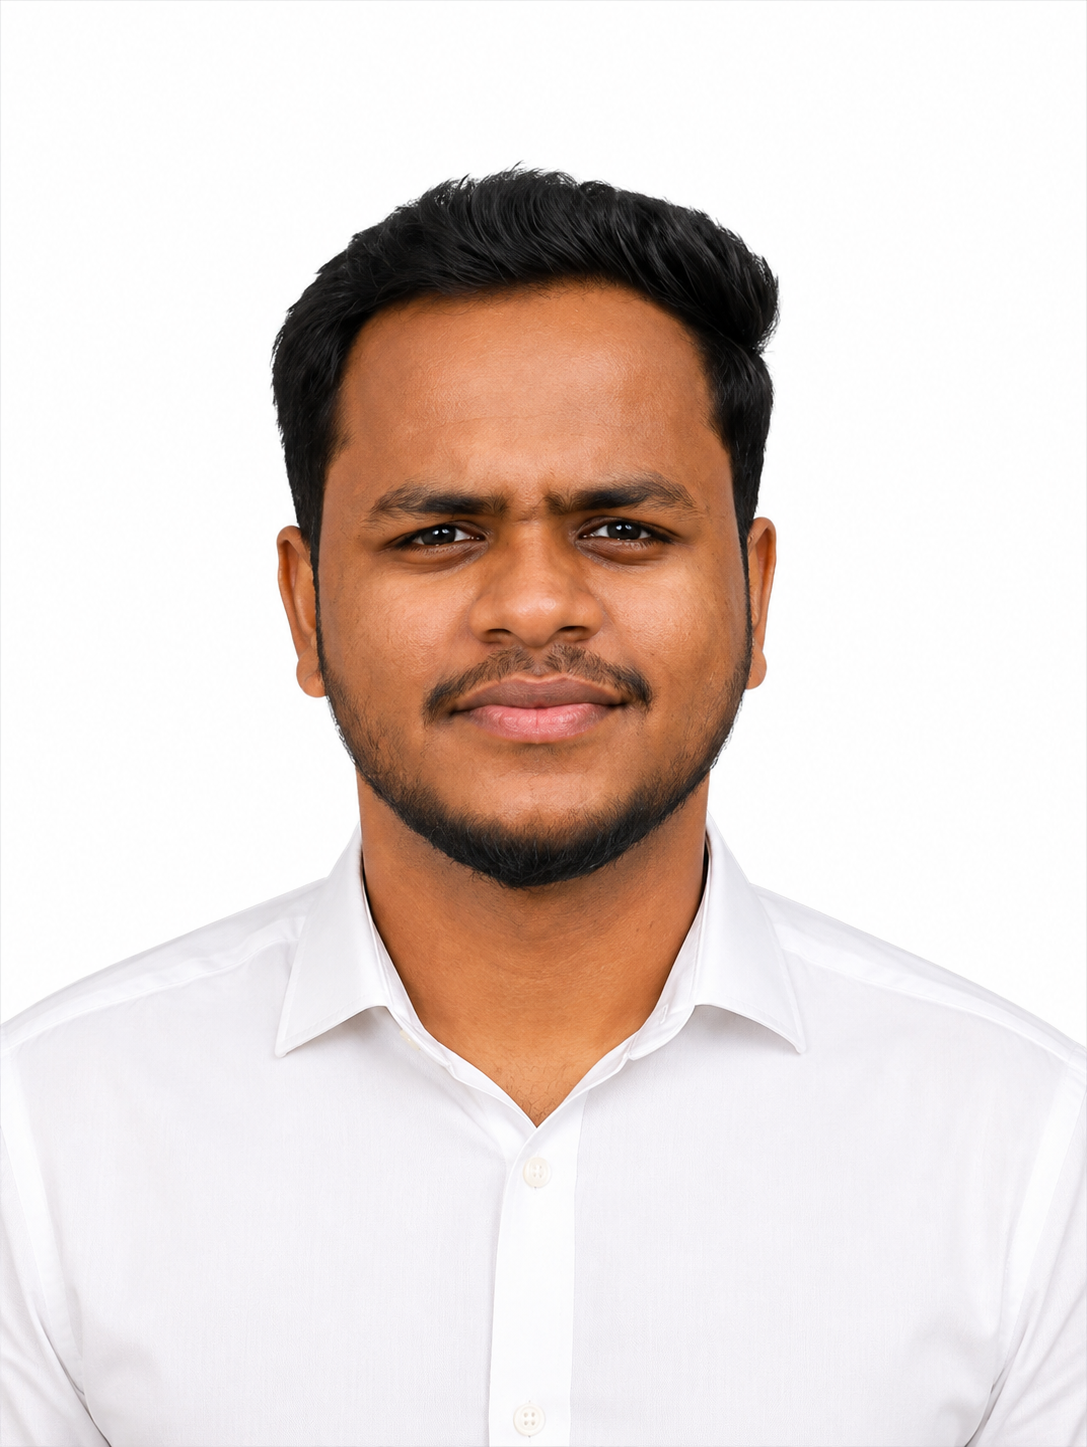
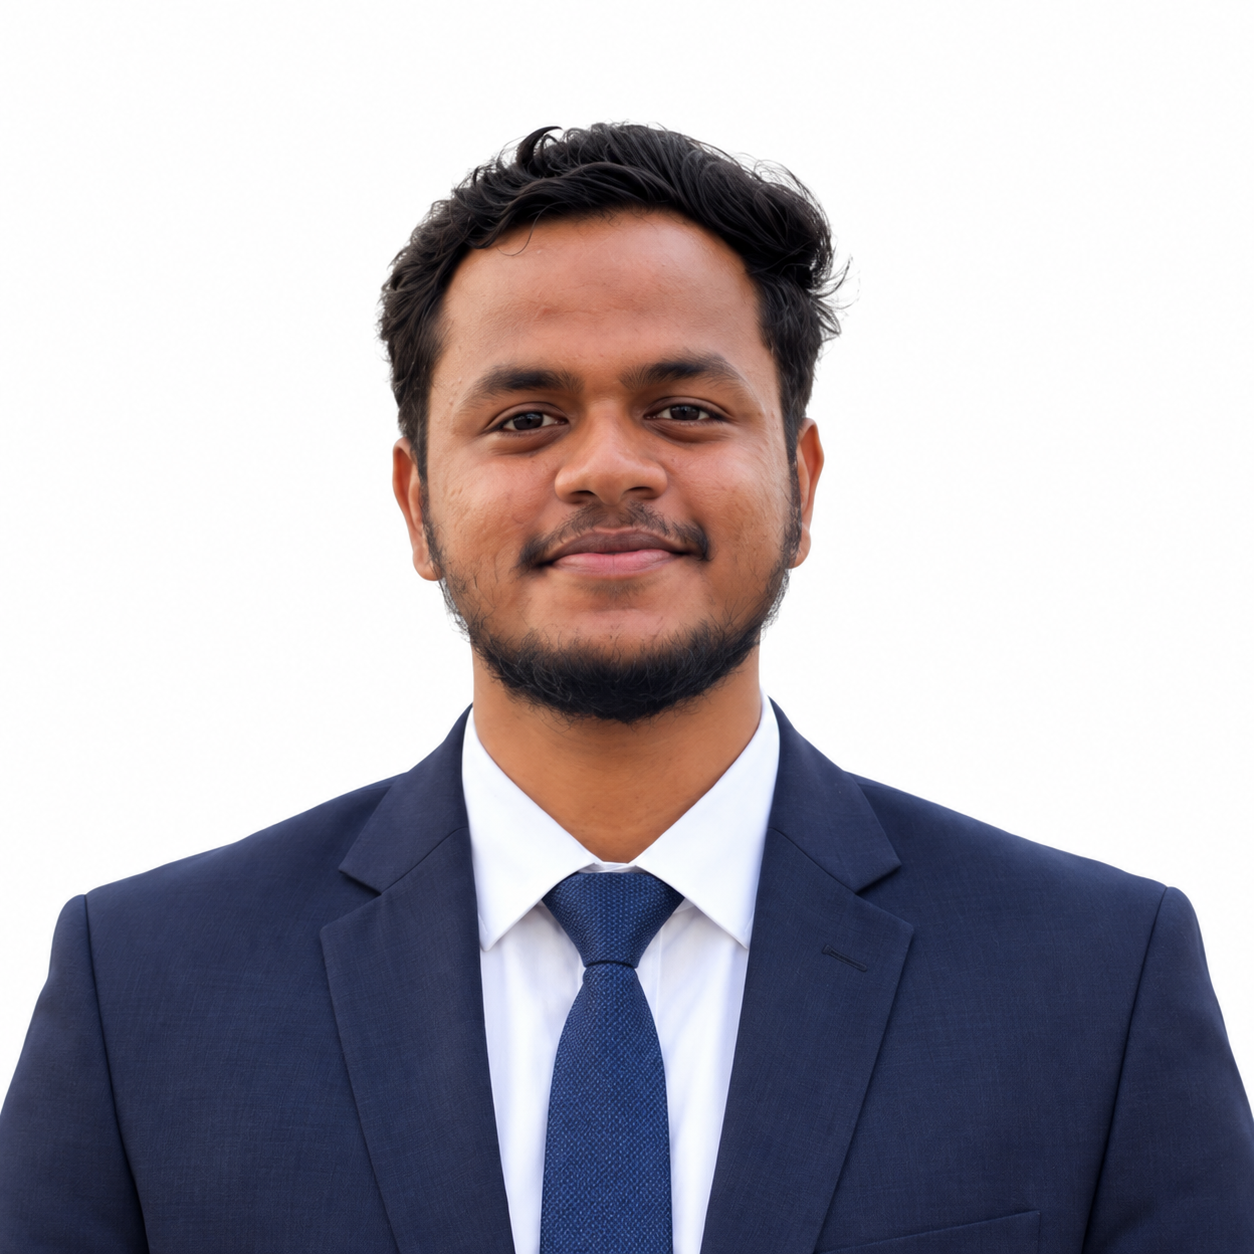
Add files via upload

diff --git a/style.css b/style.css
@@ -34,7 +34,7 @@ a{text-decoration:none;color:inherit}.grid-bg{position:fixed;inset:0;z-index:-2;
 .section-head{display:flex;align-items:center;gap:14px;margin-bottom:55px;font:700 12px "JetBrains Mono";letter-spacing:2px;color:#3155c8}.section-head .index{color:var(--orange)}.section-head i{height:1px;flex:1;background:#dfe3eb}
 .section h2,.section-title{margin:0;font:700 clamp(46px,5.2vw,78px)/1.02 "Space Grotesk";letter-spacing:-3px}.section h2 em,.section-title em{font-style:normal;color:var(--purple)}
 .about-grid{display:grid;grid-template-columns:1fr 1fr;gap:10%}.about-copy p{color:#61748d;font-size:17px;line-height:1.8}.about-copy .big{font-size:21px;color:#304966}.quote{display:flex;gap:15px;margin-top:32px;border-left:3px solid var(--orange);padding-left:18px}.quote span{font-size:38px;line-height:1;color:var(--orange)}.quote p{margin:0;font:13px/1.8 "JetBrains Mono";color:#60728a}
-.timeline{display:grid;grid-template-columns:35px 1fr;gap:30px;max-width:1200px;margin:auto}.timeline-marker{position:relative}.timeline-marker:before{content:"";position:absolute;top:0;bottom:0;left:7px;width:2px;background:linear-gradient(var(--purple),var(--cyan),var(--orange))}.timeline-marker span{position:absolute;top:7px;left:1px;width:13px;height:13px;border-radius:50%;background:#fff;border:3px solid var(--purple);box-shadow:0 0 0 5px #7357ff12}.time{font:600 9px "JetBrains Mono";letter-spacing:1.3px;color:#72829a}.time span{color:var(--orange)}.timeline-content h2{font:700 42px "Space Grotesk";letter-spacing:-1.5px;margin:15px 0 2px}.timeline-content h3{color:var(--blue);font-size:18px;margin:0}.client{font:10px "JetBrains Mono";color:#8090a4}.responsibilities{display:grid;grid-template-columns:1fr 1fr;gap:12px;margin-top:35px}.responsibilities article{background:#fff;border:1px solid #dce4ef;border-radius:10px;padding:23px;box-shadow:0 9px 25px #496f9010}.responsibilities article:nth-child(2){border-top:3px solid var(--blue)}.responsibilities article:nth-child(3){border-top:3px solid var(--orange)}.responsibilities article:nth-child(4){border-top:3px solid var(--green)}.responsibilities span,.stack-no,.work-index{font:600 9px "JetBrains Mono";color:var(--purple)}.responsibilities h4{font-size:15px;margin:14px 0 7px}.responsibilities p{font-size:12px;color:#718299;line-height:1.7;margin:0}
+.timeline{display:grid;grid-template-columns:35px 1fr;gap:30px;max-width:1200px;margin:auto}.timeline-marker{position:relative}.timeline-marker:before{content:"";position:absolute;top:0;bottom:0;left:7px;width:2px;background:linear-gradient(var(--purple),var(--cyan),var(--orange))}.timeline-marker span{position:absolute;top:7px;left:1px;width:13px;height:13px;border-radius:50%;background:#fff;border:3px solid var(--purple);box-shadow:0 0 0 5px #7357ff12}.time{font:600 11px "JetBrains Mono";letter-spacing:1.3px;color:#72829a}.time span{color:var(--orange)}.timeline-content h2{font:700 42px "Space Grotesk";letter-spacing:-1.5px;margin:15px 0 2px}.timeline-content h3{color:var(--blue);font-size:18px;margin:0}.client{font:12px "JetBrains Mono";color:#8090a4}.responsibilities{display:grid;grid-template-columns:1fr 1fr;gap:12px;margin-top:35px}.responsibilities article{background:#fff;border:1px solid #dce4ef;border-radius:10px;padding:23px;box-shadow:0 9px 25px #496f9010}.responsibilities article:nth-child(2){border-top:3px solid var(--blue)}.responsibilities article:nth-child(3){border-top:3px solid var(--orange)}.responsibilities article:nth-child(4){border-top:3px solid var(--green)}.responsibilities span,.stack-no,.work-index{font:600 9px "JetBrains Mono";color:var(--purple)}.responsibilities h4{font-size:15px;margin:14px 0 7px}.responsibilities p{font-size:12px;color:#718299;line-height:1.7;margin:0}
 .stack-title{margin-bottom:45px}.stack-grid{display:grid;grid-template-columns:repeat(3,1fr);gap:13px}.stack-grid article{min-height:195px;background:#fff;border:1px solid #e0e4eb;border-radius:11px;padding:25px;box-shadow:0 9px 26px #43536b0c;position:relative;overflow:hidden}.stack-grid article:after{content:"";position:absolute;width:90px;height:90px;border-radius:50%;right:-35px;bottom:-35px;background:#7357ff12}.stack-grid article:nth-child(2):after,.stack-grid article:nth-child(5):after{background:#1687ff12}.stack-grid article:nth-child(3):after,.stack-grid article:nth-child(6):after{background:#08bfc912}.stack-grid h3{font-size:17px;margin:18px 0;color:#243b59}.pillbox{display:flex;flex-wrap:wrap;gap:6px}.pillbox span{font:9px "JetBrains Mono";color:#5d7089;border:1px solid #dce3ec;border-radius:5px;padding:6px 7px;background:#fafcff}
 .work-intro{display:flex;justify-content:space-between;align-items:end;margin-bottom:45px}.work-intro h2{font:700 clamp(44px,5vw,72px)/1 "Space Grotesk";letter-spacing:-3px}.work-intro h2 em{font-style:normal;color:var(--orange)}.work-intro p{max-width:340px;color:#71829a;font-size:13px}.work-grid{display:grid;grid-template-columns:repeat(3,1fr);gap:13px}.work-card{background:#fff;border:1px solid #dce4ef;border-radius:11px;padding:28px;min-height:250px;display:flex;flex-direction:column;box-shadow:0 10px 26px #43536b0c}.work-card:nth-child(1){border-top:4px solid var(--purple)}.work-card:nth-child(2){border-top:4px solid var(--blue)}.work-card:nth-child(3){border-top:4px solid var(--cyan)}.work-card:nth-child(4){border-top:4px solid var(--green)}.work-card:nth-child(5){border-top:4px solid var(--orange)}.work-card:nth-child(6){border-top:4px solid var(--pink)}.work-card h3{font:700 20px "Space Grotesk";margin:23px 0 10px}.work-card p{font-size:12px;color:#718299;line-height:1.8}.work-card>div{margin-top:auto;font:9px "JetBrains Mono";color:#63758d}.work-card>div b{color:var(--purple);font-weight:400}
 .education{max-width:1000px}.education>div{display:grid;grid-template-columns:170px 1fr;gap:20px;padding:29px 0;border-bottom:1px solid #dde4ed}.education span{font:9px "JetBrains Mono";color:var(--purple)}.education h3{margin:0;font:600 19px "Space Grotesk"}.education p{margin:4px 0;color:#75869c;font-size:12px}
@@ -43,4 +43,6 @@ footer{padding:24px 7%;display:flex;justify-content:space-between;border-top:1px
 @media(max-width:900px){.header nav,.nav-cta{display:none}.hamburger{display:block}.hero{grid-template-columns:1fr;padding:75px 7%}.hero-right{min-height:430px}.about-grid{grid-template-columns:1fr;gap:35px}.responsibilities,.stack-grid,.work-grid{grid-template-columns:1fr 1fr}.section{padding:80px 7%}.work-intro{display:block}.work-intro p{margin-top:20px}}
 @media(max-width:600px){.hero h1{font-size:70px;letter-spacing:-4px}.hero-text{font-size:14px}.numbers{gap:22px}.numbers b{font-size:19px}.hero-right{min-height:390px}.server-card{transform:none}.floating-card{right:0}.responsibilities,.stack-grid,.work-grid{grid-template-columns:1fr}.education>div{grid-template-columns:1fr;gap:7px}.contact-actions{flex-direction:column}.contact-actions .button{justify-content:center}.section h2,.section-title{font-size:46px}footer{padding:20px 7%;flex-direction:column;gap:9px}}
 /* Neon multicolor sidebar redesign */
-body{background:#080b19;color:#eaf2ff}.grid-bg{opacity:.22;background-image:linear-gradient(#4d54b822 1px,transparent 1px),linear-gradient(90deg,#4d54b822 1px,transparent 1px);mask-image:none}.header{position:fixed;inset:0 auto 0 0;width:280px;height:100vh;padding:34px 25px;display:flex;flex-direction:column;align-items:stretch;justify-content:flex-start;gap:24px;background:linear-gradient(160deg,#11183a 0%,#090c1c 56%,#15102d 100%);border:0;border-right:1px solid #6674ff55;box-shadow:18px 0 55px #0007;backdrop-filter:none}.logo{font-size:18px;text-align:center;color:#fff;letter-spacing:.4px}.logo b{color:#46f5e2;text-shadow:0 0 15px #46f5e2aa}.sidebar-profile{display:grid;justify-items:center;gap:12px;padding:9px 0 15px;border-bottom:1px solid #8295ff33}.sidebar-profile img{width:132px;height:132px;object-fit:cover;object-position:center 18%;border-radius:50%;border:3px solid #7b61ff;box-shadow:0 0 0 5px #10e7d933,0 0 28px #7b61ffcc}.sidebar-profile span{font:700 8px "JetBrains Mono";letter-spacing:1px;text-align:center;color:#8dfcf2}.header nav{display:flex;flex-direction:column;gap:4px;color:#aeb9dc;font:600 11px "JetBrains Mono"}.header nav a{padding:10px 13px;border-left:2px solid transparent;border-radius:5px;transition:.2s}.header nav a:hover{color:#fff;background:#6272ff1c;border-left-color:#ff5bcf;text-shadow:0 0 14px #fff}.nav-cta{margin-top:auto;text-align:center;border:1px solid #40f6e477;background:linear-gradient(100deg,#6d42ee,#df39bc);box-shadow:0 0 24px #a344e077}.hamburger{display:none}main,footer{margin-left:280px}.hero{min-height:100vh;padding:8% 9%;background:radial-gradient(circle at 15% 20%,#7a45ff33,transparent 28%),radial-gradient(circle at 85% 75%,#03dfd333,transparent 26%),#080b19}.hero:before{background:#ff3ccd22}.hero:after{background:#04e3d422}.status{color:#93fff4;border-color:#4dfae866;background:#061e2acc;box-shadow:0 0 25px #03e6d333}.intro{color:#ff6dd6}.hero h1{color:#fff;text-shadow:0 0 26px #795cff44}.hero-text,.role{color:#bec8e8}.button.outline{background:#ffffff08;color:#f1f6ff;border-color:#a7b2ff77}.numbers b{color:#65f7e9}.numbers span{color:#9ba9d4}.orb{border-color:#5d70ff88;background:linear-gradient(135deg,#7a45ff2b,#00ead42b);box-shadow:0 0 110px #7a45ff44}.server-card{background:#0c1230;border-color:#6677ff66;box-shadow:0 30px 80px #000b}.server-top{background:#121a3d;border-color:#5669b355;color:#96a8d4}.server-body{color:#9badcf}.value{color:#59f6e5}.service{color:#abc3e8}.chips span{background:#47246b55;border-color:#d45aff66;color:#ff9be5}.floating-card{background:#12173a;border:1px solid #50fce466;box-shadow:0 0 30px #14d8c844}.marquee{background:#101632;border-color:#5365b955}.marquee div{color:#9eaee0}.section{max-width:none;padding:110px 9%;background:#0b1024}.section.dark{background:#101736;border-color:#5062ad55}.section-head{color:#63fbe9;font-size:13px}.section-head .index{color:#ff6bd5}.section-head i{background:#5867aa66}.section h2,.section-title{color:#f4f7ff}.section h2 em,.section-title em{color:#48f5e4;text-shadow:0 0 20px #42f5de66}.about-copy p,.about-copy .big{color:#b9c6e5}.quote{border-left-color:#ff6bd5}.quote p{color:#b9c6e5}.responsibilities article,.stack-grid article,.work-card{background:#131b3b;border-color:#586ad066;box-shadow:0 12px 28px #0005}.responsibilities h4,.stack-grid h3,.work-card h3,.education h3{color:#f1f5ff}.responsibilities p,.work-card p,.work-intro p,.education p{color:#b6c3e3}.pillbox span{background:#202852;color:#aeeff1;border-color:#6378ce88}.education>div{border-color:#5365ae66}.contact-section{background:linear-gradient(120deg,#4324aa,#e02fbb 50%,#08cbbf)}footer{background:#080b19;border-color:#4d5da955;color:#aeb9dc}@media(max-width:900px){.header{position:sticky;width:100%;height:auto;padding:14px 7%;flex-direction:row;align-items:center}.sidebar-profile{display:none}.header nav{display:none}main,footer{margin-left:0}.logo{margin-right:auto}.nav-cta{margin:0}.hero{min-height:calc(100vh - 72px)}}@media(max-width:600px){.nav-cta{display:none}.hamburger{display:block}.hero{padding:75px 7%}.section{padding:80px 7%}}
+body{background:#080b19;color:#eaf2ff}.grid-bg{opacity:.22;background-image:linear-gradient(#4d54b822 1px,transparent 1px),linear-gradient(90deg,#4d54b822 1px,transparent 1px);mask-image:none}.header{position:fixed;inset:0 auto 0 0;width:280px;height:100vh;padding:34px 25px;display:flex;flex-direction:column;align-items:stretch;justify-content:flex-start;gap:24px;background:linear-gradient(160deg,#11183a 0%,#090c1c 56%,#15102d 100%);border:0;border-right:1px solid #6674ff55;box-shadow:18px 0 55px #0007;backdrop-filter:none}.logo{font-size:18px;text-align:center;color:#fff;letter-spacing:.4px}.logo b{color:#46f5e2;text-shadow:0 0 15px #46f5e2aa}.sidebar-profile{display:grid;justify-items:center;gap:12px;padding:9px 0 15px;border-bottom:1px solid #8295ff33}.sidebar-profile img{width:132px;height:132px;object-fit:cover;object-position:center 18%;border-radius:50%;border:3px solid #7b61ff;box-shadow:0 0 0 5px #10e7d933,0 0 28px #7b61ffcc}.sidebar-profile span{font:700 10px "JetBrains Mono";letter-spacing:1.15px;text-align:center;color:#8dfcf2}.header nav{display:flex;flex-direction:column;gap:4px;color:#aeb9dc;font:600 13px "JetBrains Mono"}.header nav a{padding:10px 13px;border-left:2px solid transparent;border-radius:5px;transition:.2s}.header nav a:hover{color:#fff;background:#6272ff1c;border-left-color:#ff5bcf;text-shadow:0 0 14px #fff}.nav-cta{margin-top:auto;text-align:center;border:1px solid #40f6e477;background:linear-gradient(100deg,#6d42ee,#df39bc);box-shadow:0 0 24px #a344e077}.hamburger{display:none}main,footer{margin-left:280px}.hero{min-height:100vh;padding:8% 9%;background:radial-gradient(circle at 15% 20%,#7a45ff33,transparent 28%),radial-gradient(circle at 85% 75%,#03dfd333,transparent 26%),#080b19}.hero:before{background:#ff3ccd22}.hero:after{background:#04e3d422}.status{color:#93fff4;border-color:#4dfae866;background:#061e2acc;box-shadow:0 0 25px #03e6d333}.intro{color:#ff6dd6}.hero h1{color:#fff;text-shadow:0 0 26px #795cff44}.hero-text,.role{color:#bec8e8}.button.outline{background:#ffffff08;color:#f1f6ff;border-color:#a7b2ff77}.numbers b{color:#65f7e9}.numbers span{color:#9ba9d4}.orb{border-color:#5d70ff88;background:linear-gradient(135deg,#7a45ff2b,#00ead42b);box-shadow:0 0 110px #7a45ff44}.server-card{background:#0c1230;border-color:#6677ff66;box-shadow:0 30px 80px #000b}.server-top{background:#121a3d;border-color:#5669b355;color:#96a8d4}.server-body{color:#9badcf}.value{color:#59f6e5}.service{color:#abc3e8}.chips span{background:#47246b55;border-color:#d45aff66;color:#ff9be5}.floating-card{background:#12173a;border:1px solid #50fce466;box-shadow:0 0 30px #14d8c844}.marquee{background:#101632;border-color:#5365b955}.marquee div{color:#9eaee0}.section{max-width:none;padding:110px 9%;background:#0b1024}.section.dark{background:#101736;border-color:#5062ad55}.section-head{color:#63fbe9;font-size:13px}.section-head .index{color:#ff6bd5}.section-head i{background:#5867aa66}.section h2,.section-title{color:#f4f7ff}.section h2 em,.section-title em{color:#48f5e4;text-shadow:0 0 20px #42f5de66}.about-copy p,.about-copy .big{color:#b9c6e5}.quote{border-left-color:#ff6bd5}.quote p{color:#b9c6e5}.responsibilities article,.stack-grid article,.work-card{background:#131b3b;border-color:#586ad066;box-shadow:0 12px 28px #0005}.responsibilities h4,.stack-grid h3,.work-card h3,.education h3{color:#f1f5ff}.responsibilities p,.work-card p,.work-intro p,.education p{color:#b6c3e3}.pillbox span{background:#202852;color:#aeeff1;border-color:#6378ce88}.education>div{border-color:#5365ae66}.contact-section{background:linear-gradient(120deg,#4324aa,#e02fbb 50%,#08cbbf)}footer{background:#080b19;border-color:#4d5da955;color:#aeb9dc}@media(max-width:900px){.header{position:sticky;width:100%;height:auto;padding:14px 7%;flex-direction:row;align-items:center}.sidebar-profile{display:none}.header nav{display:none}main,footer{margin-left:0}.logo{margin-right:auto}.nav-cta{margin:0}.hero{min-height:calc(100vh - 72px)}}@media(max-width:600px){.nav-cta{display:none}.hamburger{display:block}.hero{padding:75px 7%}.section{padding:80px 7%}}
+.hero h1.typed-name{font-size:clamp(58px,6.4vw,90px);letter-spacing:-5px;line-height:.9}.typed-name .name-letter{display:inline-block;opacity:0;transform:translateY(10px);animation:name-letter-in .35s forwards}.typed-name .name-break{display:block;height:.08em}@keyframes name-letter-in{to{opacity:1;transform:translateY(0)}}@media(max-width:600px){.hero h1.typed-name{font-size:56px;letter-spacing:-3px}}
+.stack-logo{position:absolute;top:22px;right:24px;width:38px;height:38px;display:grid;place-items:center;border:1px solid #6a7be077;border-radius:10px;background:#0a1029;box-shadow:0 0 18px #566eff33}.stack-logo img{width:23px;height:23px;object-fit:contain;filter:drop-shadow(0 0 6px currentColor)}.stack-grid h3{padding-right:52px}

diff --git a/index.html b/index.html
@@ -29,7 +29,7 @@
   <div class="hero-left">
     <div class="status"><span></span> OPEN TO LINUX & INFRASTRUCTURE OPPORTUNITIES</div>
     <p class="mono intro">HELLO, I'M</p>
-    <h1>Kadhar<br><em>Saheed.</em></h1>
+    <h1 class="typed-name" aria-label="Kadhar Saheed">Kadhar<br><em>Saheed.</em></h1>
     <div class="role">Linux System Administrator <i>•</i> Hosting & Infrastructure</div>
     <p class="hero-text">I'm a Linux System Administrator with 3.5+ years of hands-on experience in server administration, monitoring, troubleshooting, migrations, virtualization, databases and infrastructure operations.</p>
     <div class="buttons">
@@ -46,20 +46,20 @@
   <div class="hero-right">
     <div class="orb"></div>
     <div class="server-card">
-      <div class="server-top"><span class="traffic"><i></i><i></i><i></i></span><span>production-node</span><b>●</b></div>
+      <div class="server-top"><span class="traffic"><i></i><i></i><i></i></span><span>INFRASTRUCTURE OVERVIEW</span><b>●</b></div>
       <div class="server-body">
-        <div class="line"><span class="n">01</span><span class="key">$ whoami</span></div>
-        <div class="value">kadhar-saheed</div>
-        <div class="line"><span class="n">02</span><span class="key">$ systemctl status</span></div>
+        <div class="line"><span class="n">01</span><span class="key">$ system --overview</span></div>
+        <div class="value">high-availability operations</div>
+        <div class="line"><span class="n">02</span><span class="key">$ services --status</span></div>
         <div class="service"><span>●</span> infrastructure <b>active</b></div>
         <div class="service"><span>●</span> monitoring <b>active</b></div>
         <div class="service"><span>●</span> backups <b>active</b></div>
-        <div class="line"><span class="n">03</span><span class="key">$ skills --core</span></div>
+        <div class="line"><span class="n">03</span><span class="key">$ focus --areas</span></div>
         <div class="chips"><span>LINUX</span><span>CPANEL</span><span>PLESK</span><span>PROXMOX</span><span>MYSQL</span><span>ZABBIX</span></div>
         <div class="cursor">▌</div>
       </div>
     </div>
-    <div class="floating-card"><span>UPTIME MINDSET</span><b>Secure · Stable · Recoverable</b></div>
+    <div class="floating-card"><span>RELIABILITY FIRST</span><b>Monitor · Protect · Restore</b></div>
   </div>
 </section>
 
@@ -100,12 +100,12 @@
   <div class="section-head"><span class="index">03</span><span>TECHNICAL SKILLS</span><i></i></div>
   <h2 class="section-title">Tools I use to keep<br><em>systems running.</em></h2>
   <div class="stack-grid">
-    <article><div class="stack-no">01</div><h3>Operating Systems</h3><div class="pillbox"><span>RHEL</span><span>CentOS</span><span>Ubuntu</span><span>Debian</span><span>AlmaLinux</span><span>Windows Server</span></div></article>
-    <article><div class="stack-no">02</div><h3>Hosting</h3><div class="pillbox"><span>cPanel / WHM</span><span>Plesk</span><span>DirectAdmin</span><span>Virtualizor</span></div></article>
-    <article><div class="stack-no">03</div><h3>Virtualization</h3><div class="pillbox"><span>Proxmox</span><span>KVM</span><span>Hyper-V</span><span>OpenVZ</span><span>VMware ESXi</span></div></article>
-    <article><div class="stack-no">04</div><h3>Databases</h3><div class="pillbox"><span>MySQL</span><span>MariaDB</span><span>MSSQL</span><span>Backup & Restore</span></div></article>
-    <article><div class="stack-no">05</div><h3>Monitoring & Backup</h3><div class="pillbox"><span>Zabbix</span><span>Observium</span><span>Acronis</span><span>FTP Backup</span></div></article>
-    <article><div class="stack-no">06</div><h3>Networking & Security</h3><div class="pillbox"><span>TCP/IP</span><span>DHCP</span><span>VLAN</span><span>Cisco L2/L3</span><span>SSH</span><span>RAID</span><span>LVM</span></div></article>
+    <article><div class="stack-no">01</div><div class="stack-logo"><img src="https://cdn.simpleicons.org/linux/65F7E9" alt="Linux logo"></div><h3>Operating Systems</h3><div class="pillbox"><span>RHEL</span><span>CentOS</span><span>Ubuntu</span><span>Debian</span><span>AlmaLinux</span><span>Windows Server</span></div></article>
+    <article><div class="stack-no">02</div><div class="stack-logo"><img src="https://cdn.simpleicons.org/cpanel/FF6B35" alt="cPanel logo"></div><h3>Hosting</h3><div class="pillbox"><span>cPanel / WHM</span><span>Plesk</span><span>DirectAdmin</span><span>Virtualizor</span></div></article>
+    <article><div class="stack-no">03</div><div class="stack-logo"><img src="https://cdn.simpleicons.org/proxmox/FF6B35" alt="Proxmox logo"></div><h3>Virtualization</h3><div class="pillbox"><span>Proxmox</span><span>KVM</span><span>Hyper-V</span><span>OpenVZ</span><span>VMware ESXi</span></div></article>
+    <article><div class="stack-no">04</div><div class="stack-logo"><img src="https://cdn.simpleicons.org/mysql/48F5E4" alt="MySQL logo"></div><h3>Databases</h3><div class="pillbox"><span>MySQL</span><span>MariaDB</span><span>MSSQL</span><span>Backup & Restore</span></div></article>
+    <article><div class="stack-no">05</div><div class="stack-logo"><img src="https://cdn.simpleicons.org/zabbix/FF6BD5" alt="Zabbix logo"></div><h3>Monitoring <article><div class="stack-no">05</div><h3>Monitoring & Backup</h3> Backup</h3><div class="pillbox"><span>Zabbix</span><span>Observium</span><span>Acronis</span><span>FTP Backup</span></div></article>
+    <article><div class="stack-no">06</div><div class="stack-logo"><img src="https://cdn.simpleicons.org/cisco/65F7E9" alt="Cisco logo"></div><h3>Networking <article><div class="stack-no">06</div><h3>Networking & Security</h3> Security</h3><div class="pillbox"><span>TCP/IP</span><span>DHCP</span><span>VLAN</span><span>Cisco L2/L3</span><span>SSH</span><span>RAID</span><span>LVM</span></div></article>
   </div>
 </section>
 

diff --git a/script.js b/script.js
@@ -1,1 +1,2 @@
 const button=document.querySelector('.hamburger');const nav=document.querySelector('.header nav');button.addEventListener('click',()=>{const open=nav.dataset.open==='1';nav.dataset.open=open?'0':'1';nav.style.display=open?'none':'flex';nav.style.position='absolute';nav.style.top='76px';nav.style.left='0';nav.style.right='0';nav.style.padding='22px 7%';nav.style.background='#07090b';nav.style.flexDirection='column';nav.style.borderBottom='1px solid #1c2329'});document.querySelectorAll('nav a').forEach(a=>a.addEventListener('click',()=>{if(innerWidth<901)nav.style.display='none'}));
+const typedName=document.querySelector(".typed-name");if(typedName){const nameParts=["Kadhar","Saheed."];typedName.innerHTML="";nameParts.forEach((part,partIndex)=>{const word=document.createElement(partIndex?"em":"span");[...part].forEach((letter,letterIndex)=>{const character=document.createElement("span");character.className="name-letter";character.textContent=letter;character.style.animationDelay=`${(partIndex*part.length+letterIndex)*85}ms`;word.appendChild(character)});typedName.appendChild(word);if(!partIndex){const br=document.createElement("span");br.className="name-break";typedName.appendChild(br)}})}
